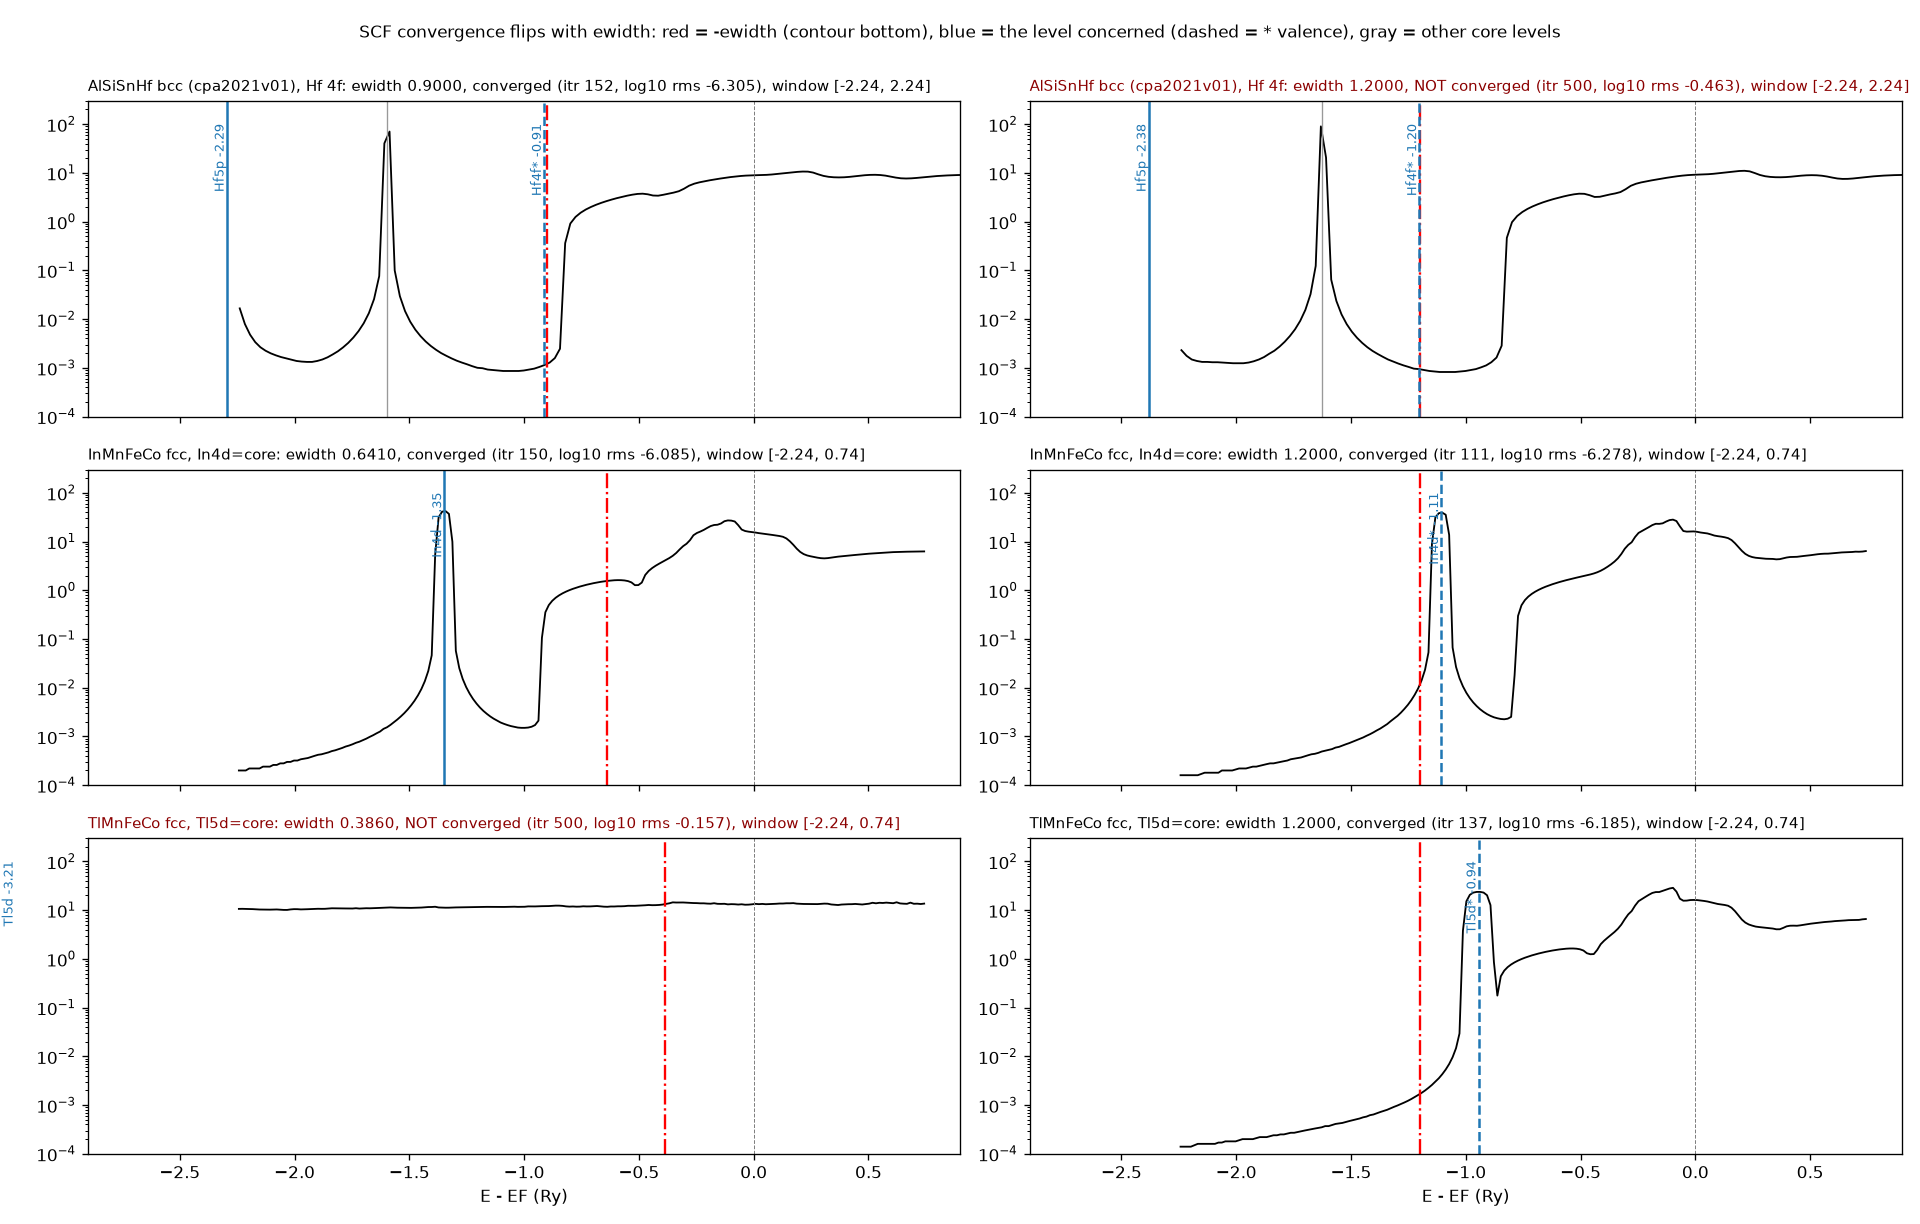
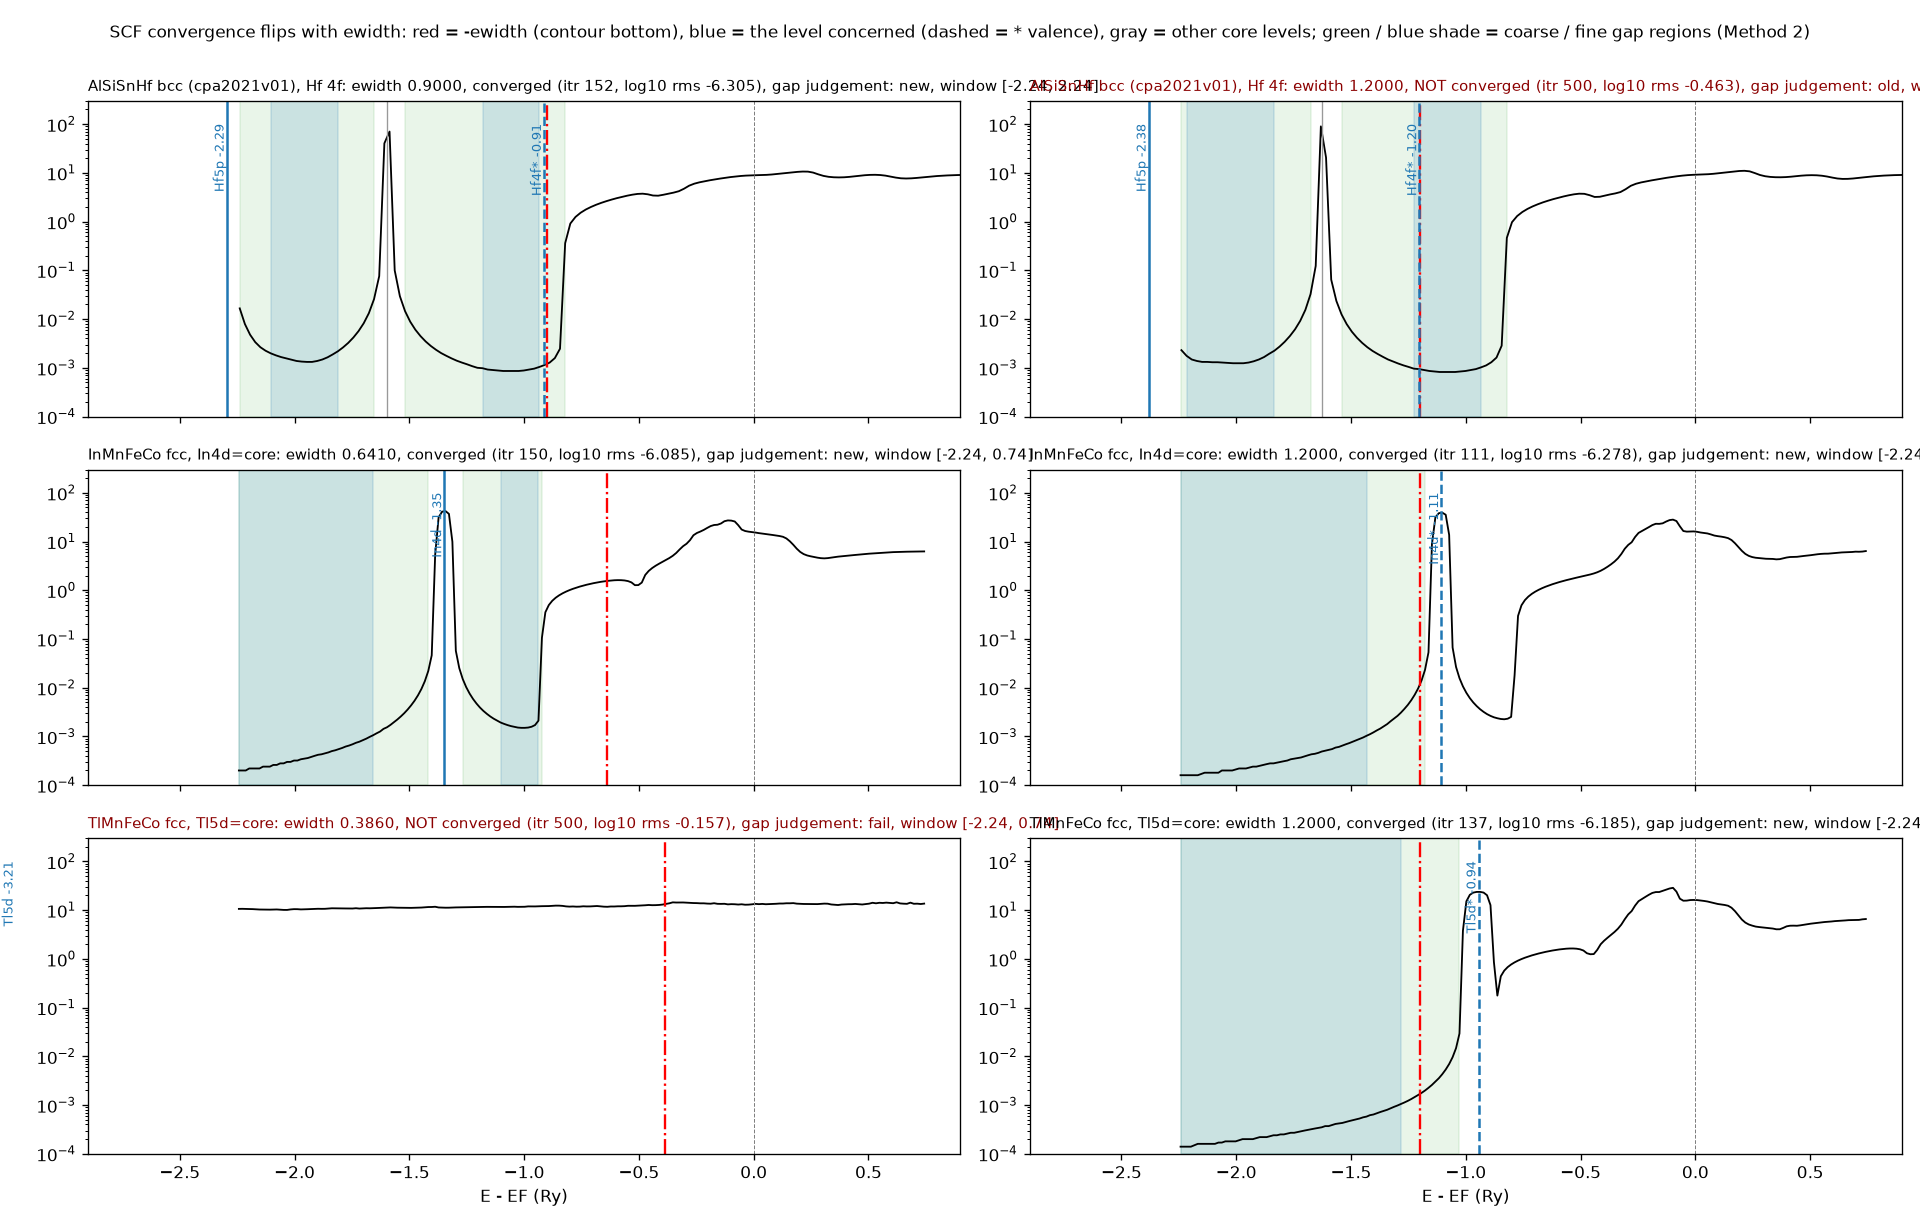
scf_convergence_vs_ewidth_dos.png: draw the coarse / fine gap regions

diff --git a/tests/gaes/tools/plot_conv_pairs.py b/tests/gaes/tools/plot_conv_pairs.py
@@ -4,6 +4,7 @@ import numpy as np, matplotlib
 matplotlib.use("Agg"); import matplotlib.pyplot as plt
 from pyakaikkr import AkaikkrJob
 from pyakaikkr.gaes import dos_curves_from_outputs, levels_from_go
+from pyakaikkr.gaes.ewidth import choose_ewidth2
 H = "/tmp/claude-1000/-home-kino-kino-Claude-Project-AKAIKKR/cf1c7f21-9c6c-416d-bd70-1577df1e05cf/scratchpad/ewscan_AlSiSnHf"
 T = "/home/kino/kino/Claude/Project/AKAIKKR/AkaiKKRPythonUtil/tests/gaes/RUN_Hf_stopped/Al0p25Si0p25Sn0p25Hf0p25_bcc"
 PAIRS = [
@@ -22,6 +23,11 @@ for row, (name, keys, runs) in enumerate(PAIRS):
         e, c, _ = dos_curves_from_outputs([(AkaikkrJob(d), "out_dos.log")]); lv = levels_from_go(d + "/out_go.log")
         n, err, _ = info(d); conv = err is not None and err < -5.9
         ax.plot(e, c[0], color="k", lw=1.1)
+        # gap regions by the Method 2 rules (dosth 2e-2 / dosth2 1e-3, eth 0.3, ediff 0.2), no ewidth bounds
+        dec = choose_ewidth2(e, c, ew, dosth=2e-2, dosth2=1e-3, eth=0.3, ediff=0.2)
+        for g in dec.coarse: ax.axvspan(g.e1, g.e2, color="tab:green", alpha=0.10)
+        for g in dec.fine: ax.axvspan(g.e1, g.e2, color="tab:blue", alpha=0.15)
+        flag = dec.flag
         ax.axvline(-ew, color="red", ls="-.", lw=1.4); ax.axvline(0, color="gray", lw=0.6, ls="--")
         for k in keys:
             v = lv.get(k)
@@ -31,9 +37,9 @@ for row, (name, keys, runs) in enumerate(PAIRS):
         for k, v in lv.items():
             if v.e > e[0] and k not in keys: ax.axvline(v.e, color="0.6", lw=0.8, ls="--" if v.star else "-")
         ax.set_yscale("log"); ax.set_ylim(1e-4, 3e2); ax.set_xlim(-2.9, 0.9)
-        ax.set_title("%s: ewidth %.4f, %s (itr %s, log10 rms %s), window [%.2f, %.2f]" % (
-            name, ew, "converged" if conv else "NOT converged", n, err, e[0], e[-1]), fontsize=9, loc="left",
+        ax.set_title("%s: ewidth %.4f, %s (itr %s, log10 rms %s), gap judgement: %s, window [%.2f, %.2f]" % (
+            name, ew, "converged" if conv else "NOT converged", n, err, flag, e[0], e[-1]), fontsize=9, loc="left",
             color="k" if conv else "darkred")
 for ax in axes[-1]: ax.set_xlabel("E - EF (Ry)")
-fig.suptitle("SCF convergence flips with ewidth: red = -ewidth (contour bottom), blue = the level concerned (dashed = * valence), gray = other core levels", fontsize=10)
+fig.suptitle("SCF convergence flips with ewidth: red = -ewidth (contour bottom), blue = the level concerned (dashed = * valence), gray = other core levels; green / blue shade = coarse / fine gap regions (Method 2)", fontsize=10)
 fig.tight_layout(rect=(0, 0, 1, 0.98)); fig.savefig("conv_pairs_dos.png", dpi=120); print("saved conv_pairs_dos.png")
